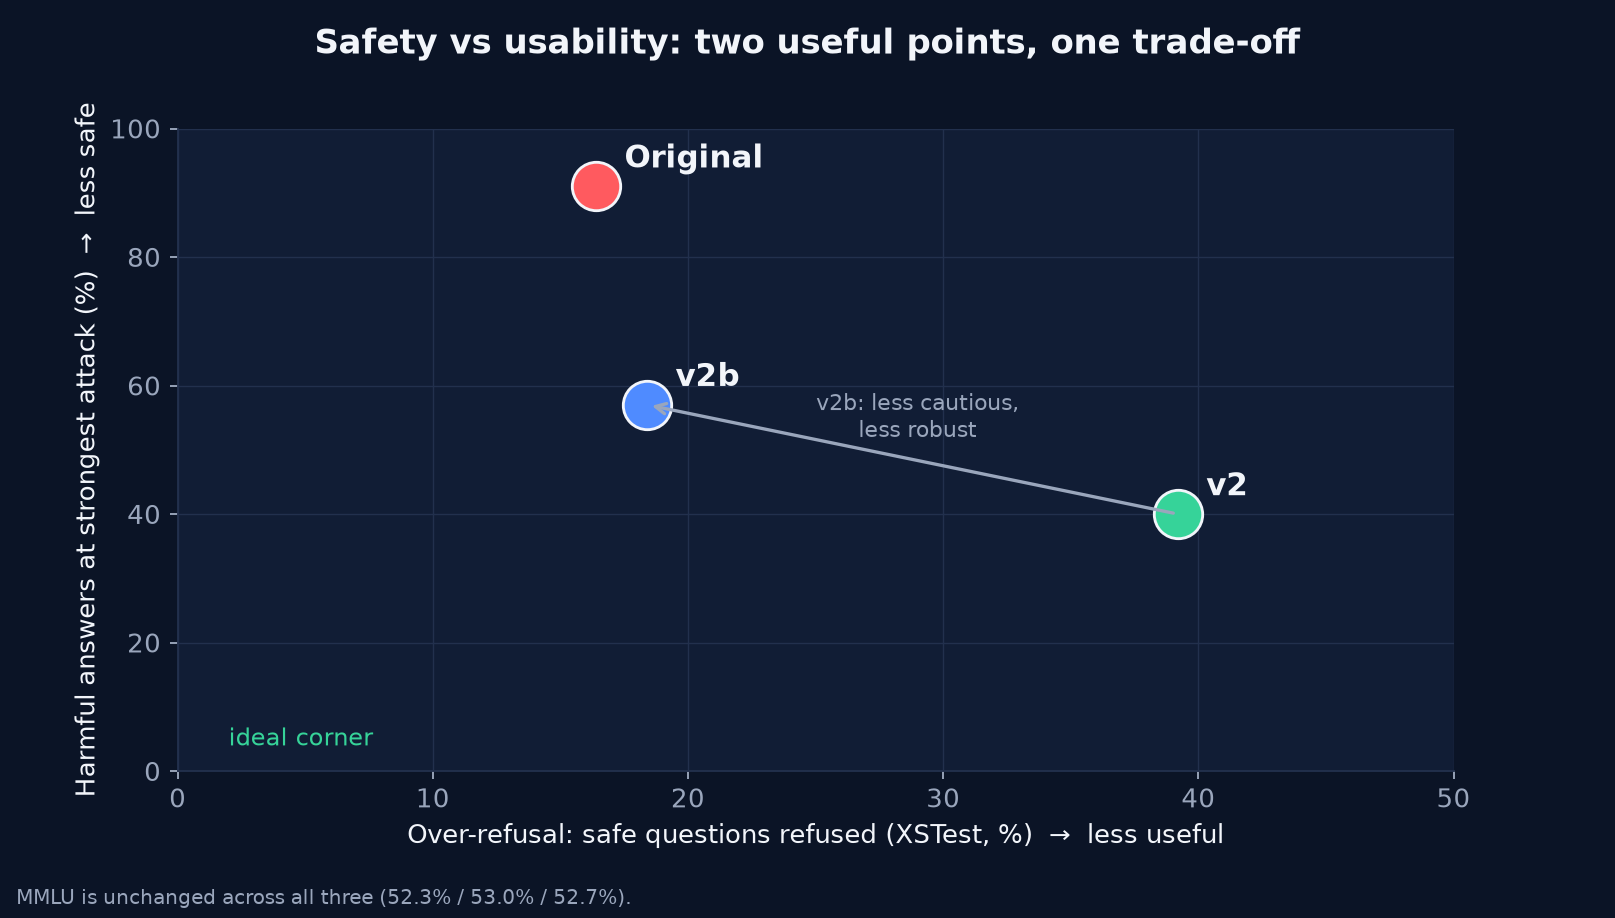
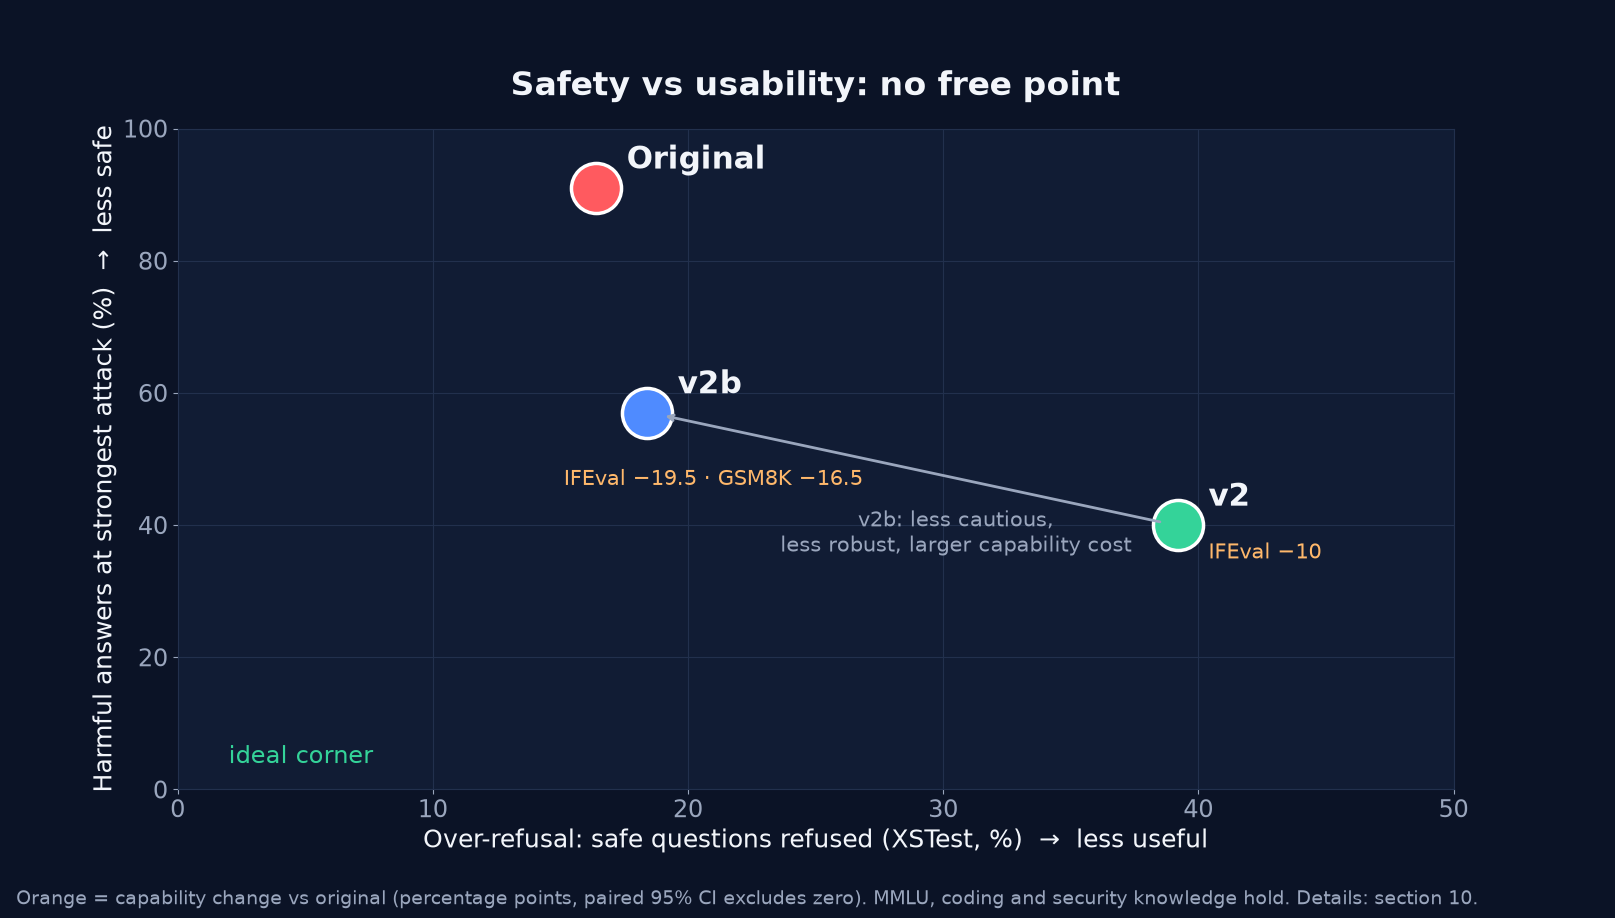
Show the capability cost in the safety-vs-usability figures
The trade-off figure said MMLU was unchanged and framed v2b as a pure
safety/over-refusal trade. Aban's paired evaluation (#7) shows real
instruction-following and maths costs, so the figure now labels each
defended point with its significant capability change. Adds a
dot-and-whisker chart of the paired changes with 95% intervals above the
section 10 table. Both are generated by docs/build/build_capability_figures.py.

diff --git a/docs/build/build_capability_figures.py b/docs/build/build_capability_figures.py
@@ -1,0 +1,66 @@
+# Rebuilds docs/figures/tradeoff.png and docs/figures/capability_cost.png (README section 10).
+# Numbers: XSTest/Granite from Day-6 (single BOS); paired capability changes from results/general_audit/clean_results.json (PR #7).
+import matplotlib
+matplotlib.use("Agg")
+import matplotlib.pyplot as plt
+
+BG, PANEL, GRID, TXT, MUTED = "#0b1326", "#111c34", "#22304d", "#f2f5fa", "#9aa6bd"
+RED, GREEN, BLUE = "#ff5a5f", "#34d399", "#4f8bff"
+plt.rcParams.update({"font.family": "DejaVu Sans", "text.color": TXT, "axes.labelcolor": TXT,
+                     "xtick.color": MUTED, "ytick.color": MUTED, "axes.edgecolor": GRID})
+
+def frame(fig, ax):
+    fig.patch.set_facecolor(BG); ax.set_facecolor(PANEL)
+    for s in ax.spines.values(): s.set_color(GRID)
+    ax.grid(True, color=GRID, lw=0.8); ax.set_axisbelow(True)
+
+# ---- 1. safety vs usability, with the capability cost written on each defended point
+fig, ax = plt.subplots(figsize=(16.15, 9.18), dpi=100); frame(fig, ax)
+pts = [("Original", 16.4, 91, RED, ""), ("v2", 39.2, 40, GREEN, "IFEval −10"),
+       ("v2b", 18.4, 57, BLUE, "IFEval −19.5 · GSM8K −16.5")]
+for name, x, y, c, cost in pts:
+    ax.scatter(x, y, s=1300, color=c, edgecolor="white", linewidth=2.5, zorder=3)
+    ax.annotate(name, (x, y), xytext=(22, 14), textcoords="offset points", fontsize=22, fontweight="bold", zorder=4)
+    if cost:
+        off = (-60, -52) if name == "v2b" else (22, -24)
+        ax.annotate(cost, (x, y), xytext=off, textcoords="offset points", fontsize=15, color="#ffb86b", zorder=4)
+ax.annotate("", xy=(19.0, 56.6), xytext=(38.6, 40.4), arrowprops=dict(arrowstyle="->", color=MUTED, lw=2))
+ax.text(30.5, 36, "v2b: less cautious,\nless robust, larger capability cost", ha="center", fontsize=15, color=MUTED)
+ax.text(2, 4, "ideal corner", fontsize=17, color=GREEN)
+ax.set_xlim(0, 50); ax.set_ylim(0, 100); ax.tick_params(labelsize=17)
+ax.set_xlabel("Over-refusal: safe questions refused (XSTest, %)  →  less useful", fontsize=18)
+ax.set_ylabel("Harmful answers at strongest attack (%)  →  less safe", fontsize=18)
+ax.set_title("Safety vs usability: no free point", fontsize=24, fontweight="bold", pad=24)
+fig.text(0.01, 0.015, "Orange = capability change vs original (percentage points, paired 95% CI excludes zero). "
+         "MMLU, coding and security knowledge hold. Details: section 10.", fontsize=13.5, color=MUTED)
+fig.subplots_adjust(left=0.11, right=0.9, top=0.86, bottom=0.14)
+fig.savefig("docs/figures/tradeoff.png", facecolor=BG); plt.close(fig)
+
+# ---- 2. capability cost: paired change vs original with 95% intervals
+tasks = [("Coding (HumanEval)", (-1.2, -7.3, 4.9), (-1.2, -8.0, 5.6)),
+         ("General knowledge (MMLU)", (-0.5, -5.6, 4.6), (0.5, -5.0, 6.0)),
+         ("Security knowledge (CyberMetric)", (-1.4, -3.7, 0.8), (-1.8, -4.2, 0.6)),
+         ("Maths (GSM8K), standard parser", (-1.0, -7.1, 5.1), (-16.5, -23.0, -9.7)),
+         ("Maths (GSM8K), strict format", (-13.0, -20.0, -5.8), (-22.0, -29.0, -14.6)),
+         ("Instruction following (IFEval)", (-10.0, -16.7, -3.2), (-19.5, -26.7, -12.0))]
+fig, ax = plt.subplots(figsize=(16.15, 8.6), dpi=100); frame(fig, ax); ax.grid(axis="y", visible=False)
+ax.axvspan(-35, 0, color="#ff5a5f", alpha=0.05, zorder=0)
+ax.axvline(0, color=TXT, lw=1.6, zorder=1)
+for i, (label, a, b) in enumerate(tasks):
+    for (m, lo, hi), dy, c, nm in [(a, 0.17, GREEN, "v2"), (b, -0.17, BLUE, "v2b")]:
+        sig = hi < 0 or lo > 0
+        ax.plot([lo, hi], [i + dy] * 2, color=c, lw=3.2, alpha=1 if sig else 0.55, zorder=2, solid_capstyle="round")
+        ax.scatter(m, i + dy, s=170, color=c if sig else PANEL, edgecolor=c, linewidth=2.5, zorder=3)
+        ax.text(hi + 0.6, i + dy, f"{m:+.1f}", va="center", fontsize=13, color=c if sig else MUTED)
+ax.set_yticks(range(len(tasks))); ax.set_yticklabels([t[0] for t in tasks], fontsize=16)
+ax.set_xlim(-32, 12); ax.tick_params(axis="x", labelsize=15)
+ax.set_xlabel("Change vs original (percentage points, paired 95% interval)   ←  worse     better  →", fontsize=16)
+ax.set_title("Capability cost: knowledge and coding hold; instructions and maths drop", fontsize=21, fontweight="bold", pad=20)
+ax.scatter([], [], s=170, color=GREEN, label="v2"); ax.scatter([], [], s=170, color=BLUE, label="v2b")
+ax.scatter([], [], s=170, color=PANEL, edgecolor=MUTED, linewidth=2.5, label="interval includes zero")
+leg = ax.legend(loc="upper right", fontsize=14, facecolor=BG, edgecolor=GRID, labelcolor=TXT)
+fig.text(0.01, 0.015, "Clean checkpoints, same frozen items per task (HumanEval 164, MMLU 200, CyberMetric 500, GSM8K 200, IFEval 200).\n"
+         "Exploratory, one training seed. Source: results/general_audit/clean_results.json.", fontsize=12.5, color=MUTED)
+fig.subplots_adjust(left=0.27, right=0.97, top=0.88, bottom=0.17)
+fig.savefig("docs/figures/capability_cost.png", facecolor=BG); plt.close(fig)
+print("ok")

diff --git a/README.md b/README.md
@@ -290,6 +290,8 @@ Tiny Aya is multilingual, so Abhinav tested 100 red-team prompts per language fr
 
 **Broader capability check: MMLU alone hid a cost.** Aban scored the clean models on the same frozen items per task (paired 95% intervals; changes in percentage points versus the original):
 
+![Capability cost of the defenses](docs/figures/capability_cost.png)
+
 | Change vs original | v2 | v2b |
 |---|---|---|
 | Coding (HumanEval, n = 164) | −1.2 [−7.3, +4.9] | −1.2 [−8.0, +5.6] |
